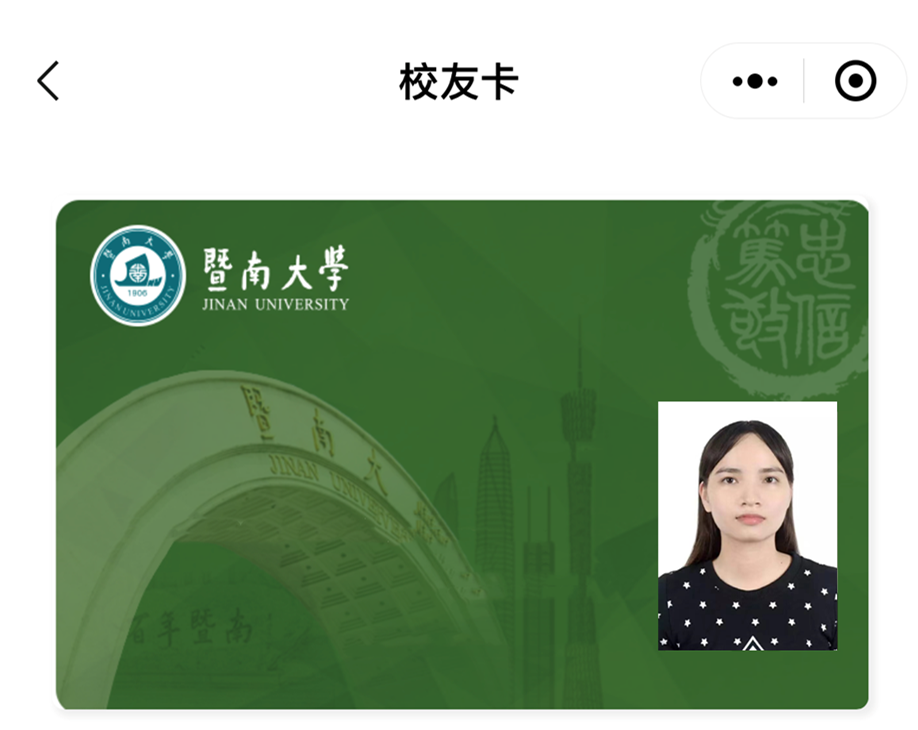
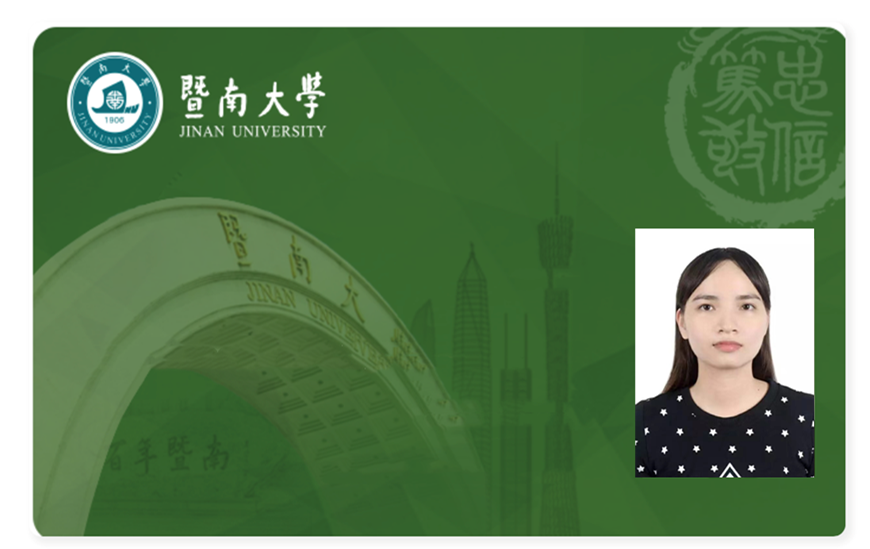
change

diff --git a/index.html b/index.html
@@ -7,21 +7,25 @@
 		.dom1 {
 				position: relative;
 				margin: 0px 0px;
-				width: 1100px;
-				height: 900px;
-				left: -40px;
-				top: -60px;
+				width: 1150px;
+				height: 700px;
+				left: 40px;
+				right: 40px;
+				top: 60px;
 				background-size: cover;
 				background-color: cornflowerblue;
 				background-image: url(img/image5.png);
 			}
 			
 			.dom2 {
+				/* 文字描述 */
 				position: absolute;
-				top: 550px;
+				top: 290px;
 				width: auto;
 				height: auto;
 				right: 30%;
+				font-family:宋体;
+				line-height: 73px;
 			}
 			
 			.dom3 {
@@ -60,8 +64,8 @@
 		<div class="dom1">
 
 			<div class="dom2">
-				<p style="color: white;font-size:55px;line-height:60px;text-align: right;margin: 15px;">黄芷珊</p>
-				<p style="color: white;font-size:40px;line-height:60px;text-align: right;margin: 25px;">信息科学技术学院/网络空间安全学院<br>计算机技术<br>No.2320180021457</p>>
+				<p style="color: white;font-size:55px;text-align: right;margin: 15px;">黄芷珊</p>
+				<p style="color: white;font-size:40px;text-align: right;margin: 25px;">信息科学技术学院/网络空间安全学院<br>计算机技术<br>No.2320180021457</p>>
 			</div>
 			<div class="dom3">
 
@@ -72,7 +76,7 @@
 			</div>
 
 		</div>
-		<div>
+		
 
 	</body>
 	<script type="text/javascript">
